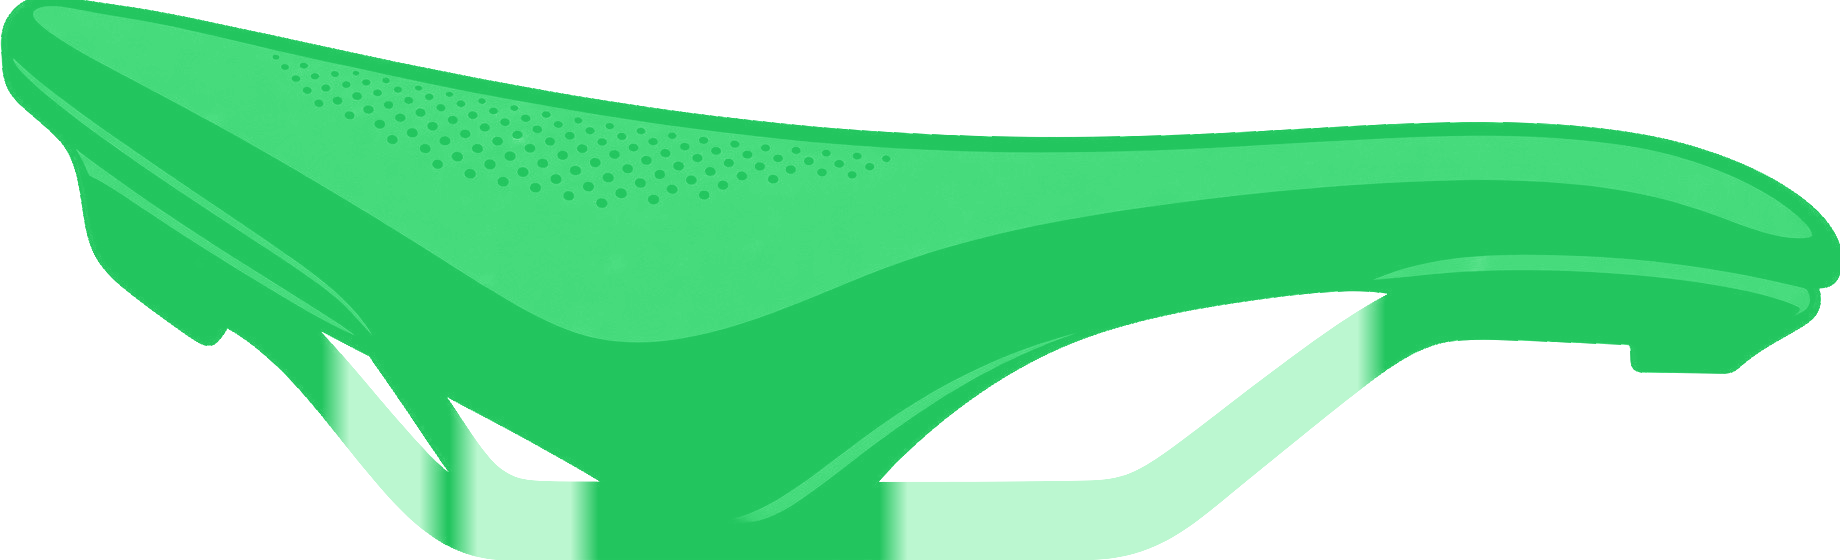
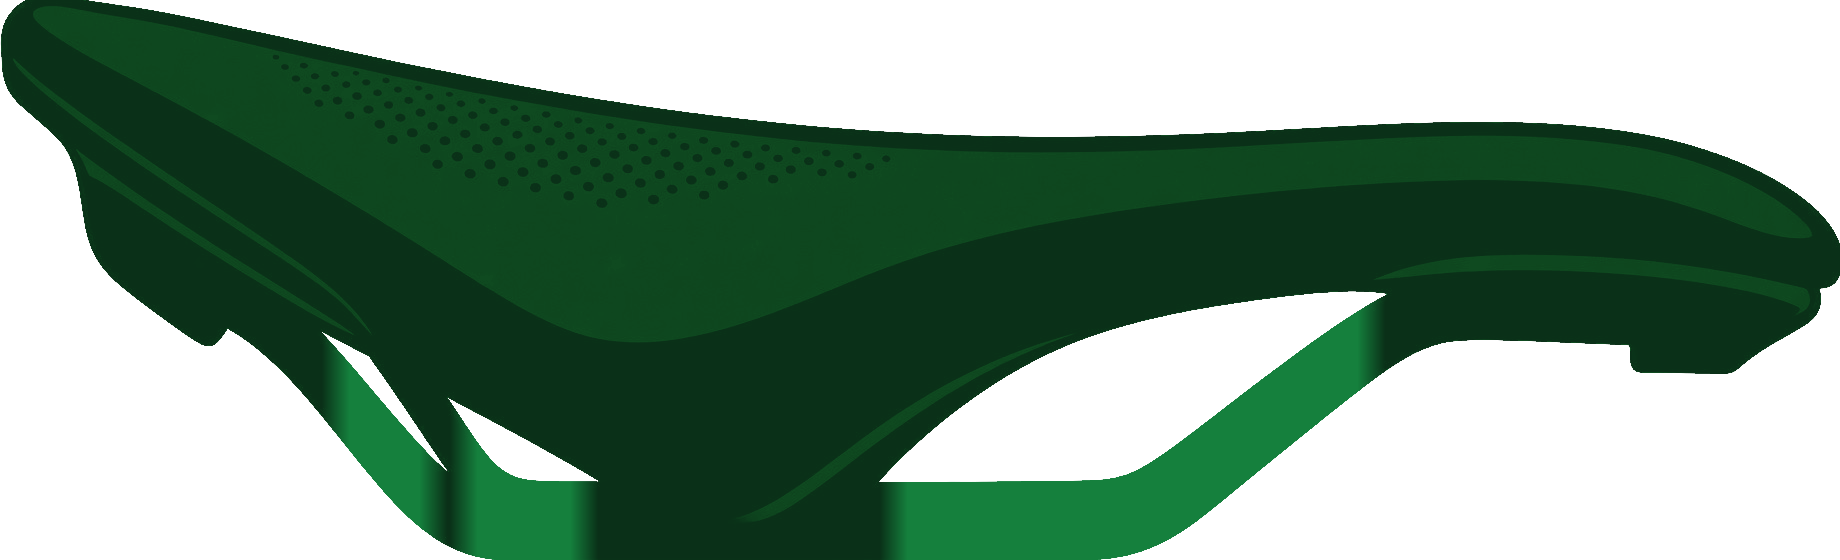
Tone down the frame designer saddle and shrink it.
Dark uses the frame's tube and fork fills instead of the highlight green. Light ink is an opaque medium grey. The artwork is 85% of the previous length, still anchored on the post.

diff --git a/frame-designer.html b/frame-designer.html
@@ -2357,16 +2357,17 @@ function drawCockpit(g){
 //  runs 150mm up the seat-tube axis from the seat cluster,
 //  square where it enters the frame and round at the top
 //  (outline 26 / fill 19, cap radii 13 and 9.5). The saddle is
-//  James's illustrated saddle for this app only: black shell,
-//  stipple, and rails on light, and the same drawing in one
-//  light-green family on dark (rails a lighter green). Set
-//  level, with the rail clamp 15% of the saddle width forward
-//  of the post. The suspension designer's saddle files are unused.
+//  James's illustrated saddle for this app only. Light ink is a
+//  medium grey, fully opaque. Dark uses the frame's own fill
+//  greens (tube fill on the shell, fork fill on the rails), with
+//  the rails lighter so they still separate. Set level, with the
+//  rail clamp 15% of the saddle width forward of the post.
+//  85% of the 280mm artwork length. The suspension designer's
+//  saddle files are unused.
 // ═══════════════════════════════════════════════════════
 const SADDLE_ART = {
   w: 1840, h: 560, mount: [1120, 510],
-  // Full-bleed artwork, kept near the previous 280mm nose-to-tail.
-  mmPerPx: 280 / 1840,
+  mmPerPx: 0.85 * 280 / 1840,
 };
 const SEATPOST_LEN = 150;
 const saddleImgs = {
